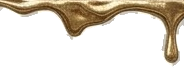
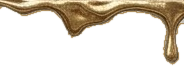
Honey Tune: header matches Voxology's cream glass; drips flow out of the frame
Claude-Session: https://claude.ai/code/session_01CehMogZvv8Ni66uUe9tZRt

diff --git a/honeytune/HoneyPanel.cpp b/honeytune/HoneyPanel.cpp
@@ -198,7 +198,7 @@ void HoneyPanel::paint (Graphics& g)
     const auto inner = fr.reduced (kFrame);
 
     // Marble bars (top and bottom); the roll paints the middle.
-    drawMarble (g, topBar, 0.0f, { 120.0f, 40.0f });
+    drawCreamGlass (g, topBar, 4.0f);
     drawMarble (g, bottomBar, 0.0f, { 200.0f, 300.0f });
 
     // Glass cards behind every group of controls and text.
@@ -214,16 +214,16 @@ void HoneyPanel::paint (Graphics& g)
         const auto scaled = img.rescaled (roundToInt (placed.getWidth()), roundToInt (placed.getHeight()), Graphics::highResamplingQuality);
         Graphics::ScopedSaveState save (g);
         g.addTransform (AffineTransform::translation (placed.getX(), placed.getY()));
-        DropShadow (Colour (0xff0b1726).withAlpha (0.85f), 9, { 1, 2 }).drawForImage (g, scaled.convertedToFormat (Image::ARGB));
+        DropShadow (Colour (80, 56, 14).withAlpha (0.3f), 4, { 0, 3 }).drawForImage (g, scaled.convertedToFormat (Image::ARGB));
         g.setOpacity (1.0f);
         g.drawImageAt (scaled, 0, 0);
     }
-    drawGoldText (g, "by Voxology", titleArea.withTrimmedLeft (titleArea.getWidth() * 0.42f).removeFromBottom (15.0f).translated (0.0f, 3.0f),
+    drawCaps (g, "by Voxology", titleArea.withTrimmedLeft (titleArea.getWidth() * 0.42f).removeFromBottom (15.0f).translated (0.0f, 3.0f),
                   FontOptions (12.0f, Font::bold), Justification::centredLeft);
 
     // Control labels on the marble, in embossed gold.
     for (auto* l : { &keyLabel, &scaleLabel, &snapLabel, &driftLabel, &vibratoLabel })
-        drawGoldText (g, l->getText(), l->getBounds().toFloat(), FontOptions (12.5f, Font::bold), Justification::centredLeft);
+        drawCaps (g, l->getText(), l->getBounds().toFloat(), FontOptions (12.5f, Font::bold), Justification::centredLeft);
 
     // Legend
     {
@@ -259,7 +259,8 @@ void HoneyPanel::paint (Graphics& g)
     g.setFont (FontOptions (11.5f, Font::bold));
     g.drawFittedText (status, statusArea.reduced (10.0f, 0.0f).toNearestInt(), Justification::centredLeft, 1);
 
-    // Gold: the frame and the bars between the sections.
+    // Gold: the drips, the frame and the bars between the sections.
+    drawDrips (g, fr);
     drawGoldFrame (g, fr, kFrame, 12.0f);
     for (const auto& sep : { Rectangle<float> (inner.getX(), topBar.getBottom(), inner.getWidth(), kSeparator),
                              Rectangle<float> (inner.getX(), bottomBar.getY() - kSeparator, inner.getWidth(), kSeparator) })
@@ -272,19 +273,21 @@ void HoneyPanel::paint (Graphics& g)
     }
 }
 
-void HoneyPanel::paintOverChildren (Graphics& g)
+void HoneyPanel::paintOverChildren (Graphics&) {}
+
+void HoneyPanel::drawDrips (Graphics& g, Rectangle<float> fr)
 {
-    // Honey dripping off the bottom of the frame (the drips from the mockup art).
-    const auto fr = frameArea();
+    // Honey running off the bottom of the frame (the drips from the mockup art). Drawn before the
+    // frame, with their tops tucked under it, so they flow out of it.
     g.setOpacity (1.0f);
     const float positions[] = { 0.26f, 0.61f, 0.87f };
     for (int k = 0; k < 3; ++k)
     {
         const auto img = honeytheme::drip (k);
         if (! img.isValid()) continue;
-        const float h = kDripRoom + kFrame + 6.0f, w = h * (float) img.getWidth() / (float) img.getHeight();
+        const float h = kDripRoom + kFrame + 12.0f, w = h * (float) img.getWidth() / (float) img.getHeight();
         const float x = fr.getX() + fr.getWidth() * positions[k] - (k == 2 ? w * 0.5f : 0.0f);
-        g.drawImage (img, { std::min (x, fr.getRight() - w - 4.0f), fr.getBottom() - kFrame - 3.0f, w, h }, RectanglePlacement::stretchToFit);
+        g.drawImage (img, { std::min (x, fr.getRight() - w - 4.0f), fr.getBottom() - kFrame + 0.5f, w, h }, RectanglePlacement::stretchToFit);
     }
 }
 

diff --git a/honeytune/HoneyTheme.cpp b/honeytune/HoneyTheme.cpp
@@ -9,6 +9,7 @@ namespace honeytheme {
 Image marble()      { return ImageCache::getFromMemory (HoneyAssets::marble_blue_white_jpg, HoneyAssets::marble_blue_white_jpgSize); }
 Image goldTexture() { return ImageCache::getFromMemory (HoneyAssets::gold_jpg, HoneyAssets::gold_jpgSize); }
 Image logo()        { return ImageCache::getFromMemory (HoneyAssets::logo_png, HoneyAssets::logo_pngSize); }
+Image creamPanel()  { return ImageCache::getFromMemory (HoneyAssets::marble_cream_panel_jpg, HoneyAssets::marble_cream_panel_jpgSize); }
 Image title()       { return ImageCache::getFromMemory (HoneyAssets::title_png, HoneyAssets::title_pngSize); }
 Image drip (int which)
 {
@@ -85,6 +86,38 @@ void drawGoldText (Graphics& g, const String& text, Rectangle<float> r, Font fon
     g.setColour (Colour (0xff0d1c2e).withAlpha (0.75f));
     g.drawText (text, r.translated (1.0f, 1.5f), j, false);
     g.setGradientFill (ColourGradient (Colour (0xfffff0c0), 0, r.getY() + r.getHeight() * 0.2f, Colour (0xffc08a2a), 0, r.getBottom() - r.getHeight() * 0.2f, false));
+    g.drawText (text, r, j, false);
+}
+
+void drawCreamGlass (Graphics& g, Rectangle<float> r, float corner)
+{
+    Graphics::ScopedSaveState save (g);
+    Path clip;
+    clip.addRoundedRectangle (r, corner);
+    g.reduceClipRegion (clip);
+    g.setOpacity (1.0f);
+    g.drawImage (creamPanel(), r, RectanglePlacement::fillDestination);
+    // linear-gradient(160deg, rgba(255,255,255,.5), transparent 45%)
+    const auto dir = Point<float> (std::sin (degreesToRadians (160.0f)), -std::cos (degreesToRadians (160.0f)));
+    const float len = std::abs (r.getWidth() * dir.x) + std::abs (r.getHeight() * dir.y);
+    const auto start = r.getCentre() - dir * (len * 0.5f);
+    ColourGradient sheen (Colours::white.withAlpha (0.5f), start, Colours::white.withAlpha (0.0f), start + dir * (len * 0.45f), false);
+    g.setGradientFill (sheen);
+    g.fillRect (r);
+    // inset 0 0 14px rgba(36,97,143,.35)
+    for (int i = 0; i < 14; ++i)
+    {
+        g.setColour (Colour (36, 97, 143).withAlpha (0.35f * std::pow (1.0f - (float) i / 14.0f, 2.0f) * 0.35f));
+        g.drawRoundedRectangle (r.reduced ((float) i + 0.5f), std::max (0.0f, corner - (float) i), 1.0f);
+    }
+}
+
+void drawCaps (Graphics& g, const String& text, Rectangle<float> r, Font font, Justification j)
+{
+    g.setFont (font);
+    g.setColour (Colours::white.withAlpha (0.9f));
+    g.drawText (text, r.translated (0.0f, 1.0f), j, false);
+    g.setColour (Colour (0xff8d641f));
     g.drawText (text, r, j, false);
 }
 

diff --git a/honeytune/HoneyTheme.h b/honeytune/HoneyTheme.h
@@ -12,6 +12,7 @@ juce::Image marble();   // 1600 x 1000 blue / white liquid marble
 juce::Image goldTexture();
 juce::Image logo();
 juce::Image title();
+juce::Image creamPanel();   // Voxology's header marble
 juce::Image drip (int which);   // 0..2: the honey drips from the mockup
 
 /** Marble across `area` (fills it, cropped), washed toward white by `wash` (0..1). */
@@ -24,6 +25,10 @@ void fillGold (juce::Graphics&, const juce::Path&, juce::Rectangle<float> lightA
 void drawGoldBar (juce::Graphics&, juce::Rectangle<float> r, float corner = 1.5f);
 /** Embossed gold text (dark shadow under a polished gold fill). */
 void drawGoldText (juce::Graphics&, const juce::String&, juce::Rectangle<float>, juce::Font, juce::Justification);
+/** Voxology's header look: cream marble, a white sheen from the top left, a soft blue inner shadow. */
+void drawCreamGlass (juce::Graphics&, juce::Rectangle<float> r, float corner);
+/** Voxology's caps labels: deep gold with a white edge under them. */
+void drawCaps (juce::Graphics&, const juce::String&, juce::Rectangle<float>, juce::Font, juce::Justification);
 /** A gold frame (bevelled border) of `thickness` around `r`, rounded. */
 void drawGoldFrame (juce::Graphics&, juce::Rectangle<float> r, float thickness, float corner);
 /** Honey drips hanging from the line y = `edgeY` between x0 and x1 (deterministic per seed). */

diff --git a/honeytune/HoneyPanel.h b/honeytune/HoneyPanel.h
@@ -27,6 +27,7 @@ private:
     void applyNoteEdit();
 
     juce::Rectangle<float> frameArea() const;
+    void drawDrips (juce::Graphics&, juce::Rectangle<float> frame);
 
     std::unique_ptr<honeytheme::Look> look;
     juce::Rectangle<float> topBar, bottomBar, titleArea, legendArea, logoArea, noteInfoArea, statusArea;

diff --git a/claude/RESUME-HERE.md b/claude/RESUME-HERE.md
@@ -171,6 +171,8 @@ behind cells, embossed gold title / labels (drawGoldText). Round 3: no drips on 
 from the user's mockup (assets/src/cutout.py removes fake checkerboards; drip_a/b/c.png); user's Honey Tune title
 art (images/13.jpg -> assets/title.png, "by Voxology" trimmed and drawn as gold text); marble now 3D (height
 field lighting + specular + sheen in make_marble.py). Top bar 104 px, editor 1200 x 720.
+Round 4: top bar = Voxology header (marble_cream_panel + 160deg sheen + blue inner shadow, drawCreamGlass; labels
+drawCaps gold-deep + white edge); drips de-haloed and drawn BEFORE the frame with tops tucked under it.
 
 ## Honey Tune (decided 2026-10-05; build AFTER the user confirms v0.2 works in Cubase)
 User's name for our Melodyne-style note editor: "Honey Tune". Each note = a gold-rimmed blue-marble
